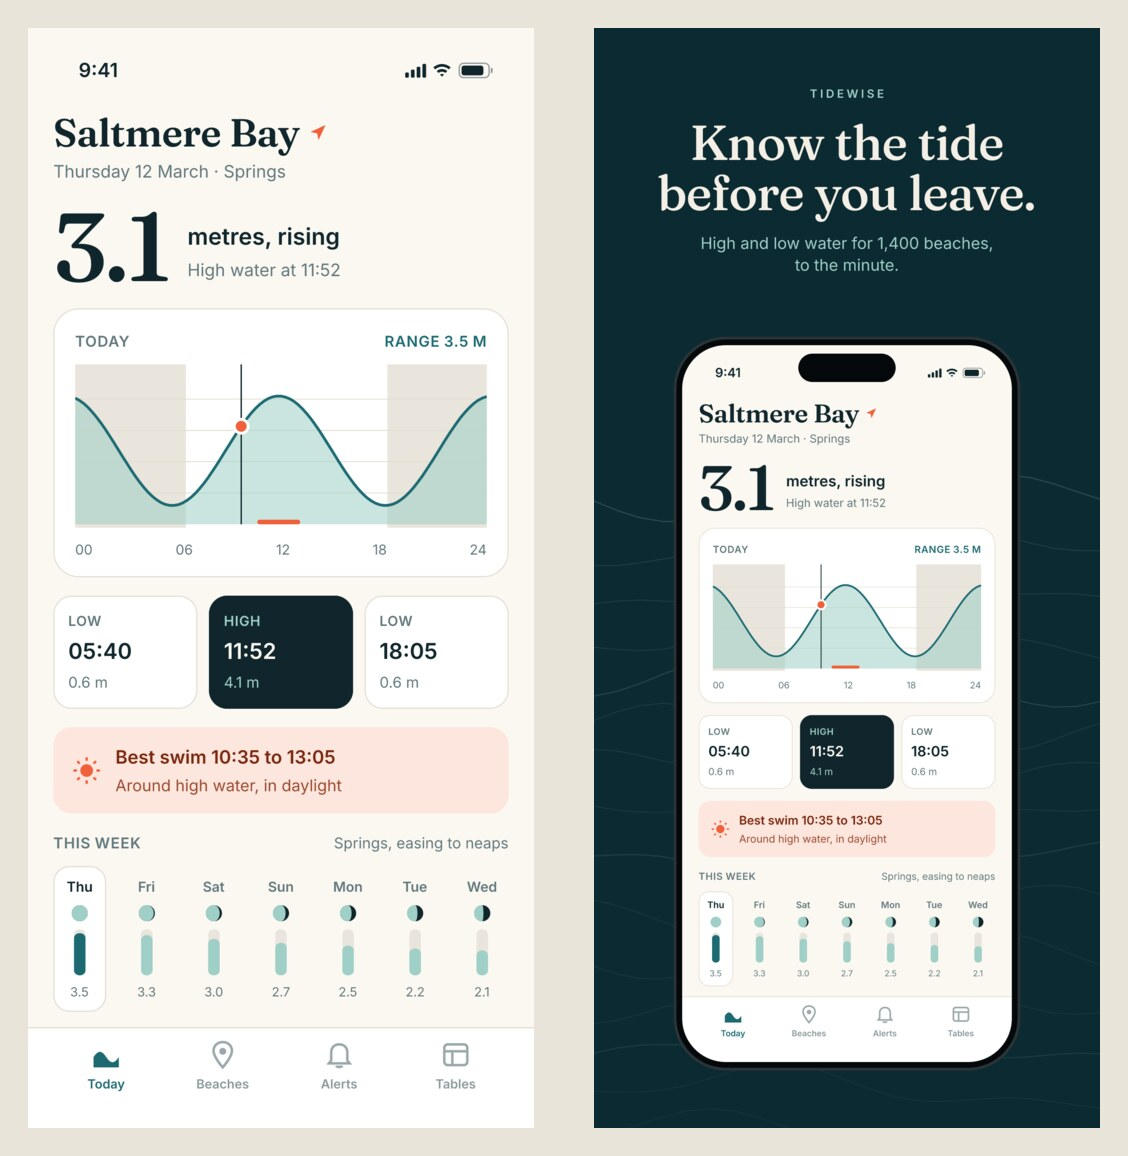
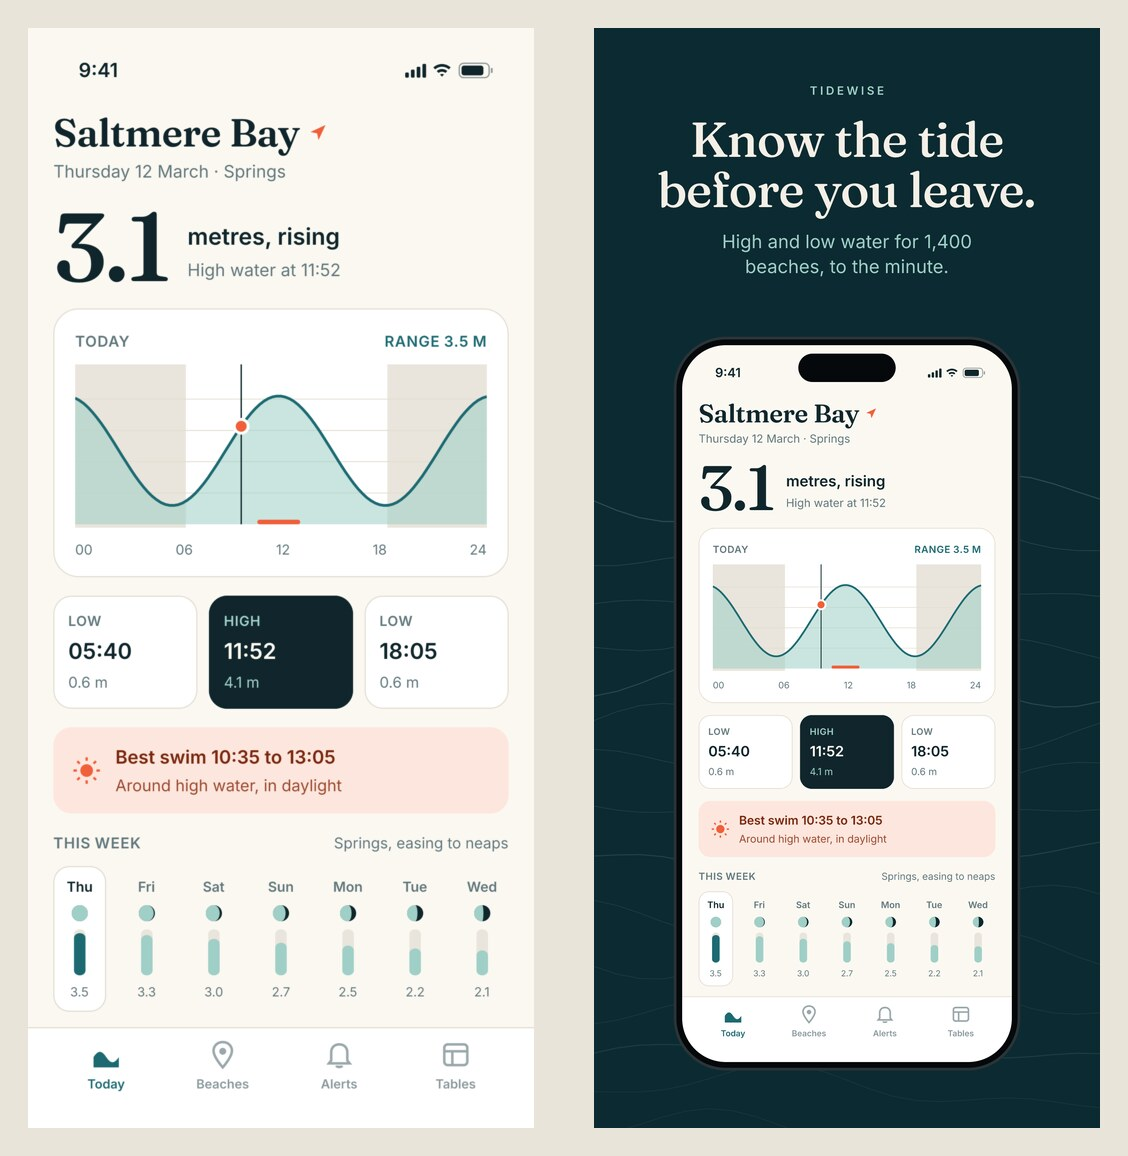
Store-ready RGB PNGs, per-store values files (npm run new), notch frame for 6.5", larger subheads

Changed region(s): [[0.5895, 0.0623, 0.9309, 0.2491]]

diff --git a/src/tidewise-app-store.tsx b/src/tidewise-app-store.tsx
@@ -341,18 +341,27 @@ export const SCREEN_ASPECT = WIDTH / HEIGHT;
  * `screenWidth` px across its screen. The screen is the first child of a Layer, so a screenshot given as an
  * Image fills it, cropped from the center; the island or the camera is drawn over it.
  */
-export function Phone({ screenWidth, device = "iphone", children }: { screenWidth: number; device?: "iphone" | "android"; children: ReactNode }) {
+export function Phone({ screenWidth, device = "iphone", children }: { screenWidth: number; device?: "iphone" | "notch" | "android"; children: ReactNode }) {
   const u = screenWidth / 860;
   const screenHeight = Math.round(screenWidth / SCREEN_ASPECT);
-  const iphone = device === "iphone";
+  const iphone = device !== "android";
   const [outer, inner, screen] = iphone ? [136, 129, 114].map((r) => r * u) : [92, 86, 70].map((r) => r * u);
+  // The notch of a 6.5" iPhone: half the screen wide, flat on top, rounded below, with a small curve into the edge.
+  const nw = Math.round(screenWidth * 0.5);
+  const nh = Math.round(screenHeight * 0.034);
+  const [ear, round] = [10 * u, 26 * u];
+  const notch = `M0 0 H${nw} C${nw - ear * 0.5} 0 ${nw - ear} ${ear * 0.4} ${nw - ear} ${ear} V${nh - round} Q${nw - ear} ${nh} ${nw - ear - round} ${nh} H${ear + round} Q${ear} ${nh} ${ear} ${nh - round} V${ear} C${ear} ${ear * 0.4} ${ear * 0.5} 0 0 0 Z`;
   return (
     <Column style={{ width: screenWidth + 44 * u, backgroundColor: GRAPHITE, borderRadius: outer, padding: 7 * u }}>
       <Column style={{ width: screenWidth + 30 * u, backgroundColor: GLASS, borderRadius: inner, padding: 15 * u }}>
         <Layer style={{ width: screenWidth, height: screenHeight, borderRadius: screen, justifyItems: "center", alignItems: "start" }}>
           {children}
-          <Column style={{ padding: [(iphone ? 22 : 30) * u, 0, 0, 0] }}>
-            {iphone ? (
+          <Column style={{ padding: [device === "notch" ? 0 : (iphone ? 22 : 30) * u, 0, 0, 0] }}>
+            {device === "notch" ? (
+              <Svg width={nw} height={nh} viewBox={`0 0 ${nw} ${nh}`} title="The notch">
+                <Path d={notch} style={{ fill: GLASS }} />
+              </Svg>
+            ) : iphone ? (
               <Svg width={254 * u} height={74 * u} viewBox="0 0 254 74" title="The Dynamic Island">
                 <Rect x={0} y={0} width={254} height={74} rx={37} style={{ fill: GLASS }} />
               </Svg>
@@ -418,11 +427,11 @@ export function Depths({ width, height, color }: { width: number; height: number
  */
 export const SIZES = {
   /** App Store Connect, iPhone 6.9" (required). */
-  iphone69: { width: 1320, height: 2868, device: "iphone", screenWidth: 860, headline: [128, 116, 104, 96], maxLines: 3, subhead: 42, measure: 1100, words: 640, bottom: 150 },
-  /** App Store Connect, iPhone 6.5". */
-  iphone65: { width: 1284, height: 2778, device: "iphone", screenWidth: 836, headline: [124, 112, 100, 92], maxLines: 3, subhead: 41, measure: 1070, words: 600, bottom: 144 },
+  iphone69: { width: 1320, height: 2868, device: "iphone", screenWidth: 860, headline: [128, 116, 104, 96], maxLines: 3, subhead: 48, measure: 1100, words: 640, bottom: 150 },
+  /** App Store Connect, iPhone 6.5": the iPhones of that size have a notch. */
+  iphone65: { width: 1284, height: 2778, device: "notch", screenWidth: 836, headline: [124, 112, 100, 92], maxLines: 3, subhead: 47, measure: 1070, words: 600, bottom: 144 },
   /** Google Play, phone, 9:16. */
-  play: { width: 1080, height: 1920, device: "android", screenWidth: 580, headline: [92, 84, 76, 68], maxLines: 2, subhead: 34, measure: 800, words: 440, bottom: 90 },
+  play: { width: 1080, height: 1920, device: "android", screenWidth: 580, headline: [92, 84, 76, 68], maxLines: 2, subhead: 38, measure: 800, words: 440, bottom: 90 },
 } as const;
 export type Size = keyof typeof SIZES;
 

diff --git a/scripts/new.ts b/scripts/new.ts
@@ -1,0 +1,21 @@
+/**
+ * Makes a values file for one screenshot from a brief and a capture, for one store:
+ *
+ *   npm run new -- plan brief.json capture.png          designs/plan.values.json, App Store sizes (6.9" and 6.5")
+ *   npm run new -- plan brief.json android.png --play   designs/plan-android.values.json, Google Play's size
+ *
+ * It runs `hyper-elements design new` (the template checks the brief and the capture) and keeps only that store's
+ * formats in the file.
+ */
+import { execFileSync } from "node:child_process";
+import { readFileSync, writeFileSync } from "node:fs";
+
+const [name, brief, capture, flag] = process.argv.slice(2);
+if (!name || !brief || !capture) throw new Error("usage: npm run new -- <name> <brief.json> <capture.png> [--play]");
+const play = flag === "--play";
+const out = `designs/${name}${play ? "-android" : ""}.values.json`;
+execFileSync("npx", ["hyper-elements", "design", "new", "templates/app-store-screenshot.tsx", "-o", out, "--values", brief, "--set", `screenshot=@${capture}`], { stdio: "inherit" });
+const file = JSON.parse(readFileSync(out, "utf8"));
+file.formats = play ? ["play"] : ["iphone69", "iphone65"];
+writeFileSync(out, JSON.stringify(file, null, 2) + "\n");
+console.log(`${out}: ${file.formats.join(", ")}. Render it with: npm run render -- ${out}`);

diff --git a/scripts/render.ts b/scripts/render.ts
@@ -1,0 +1,25 @@
+/**
+ * Renders store screenshots with the Hyper Elements command line, then rewrites each PNG without its alpha
+ * channel: App Store Connect and Google Play take screenshots with no transparency (RGB, not RGBA).
+ *
+ *   npm run render                                   every values file in designs/
+ *   npm run render -- designs/plan.values.json       one
+ */
+import { execFileSync } from "node:child_process";
+import { readdirSync, readFileSync, statSync, writeFileSync } from "node:fs";
+import { join } from "node:path";
+import { PNG } from "pngjs";
+
+const args = process.argv.slice(2);
+const started = Date.now();
+execFileSync("npx", ["hyper-elements", "render", ...(args.length ? args : ["designs"]), "--out", "out"], { stdio: "inherit" });
+
+const dir = join("out", "designs");
+for (const name of readdirSync(dir).filter((f) => f.endsWith(".png"))) {
+  const file = join(dir, name);
+  if (statSync(file).mtimeMs < started) continue;
+  const png = PNG.sync.read(readFileSync(file));
+  // Every pixel the template draws is opaque; dropping the channel loses nothing.
+  writeFileSync(file, PNG.sync.write(png, { colorType: 2, inputHasAlpha: true }));
+  console.log(`  ${file}: ${png.width} × ${png.height}, RGB`);
+}

diff --git a/README.md b/README.md
@@ -1,7 +1,8 @@
 # Store screenshots
 
 **A Hyper Elements template for App Store and Google Play screenshots: your app's raw capture, framed in a phone
-drawn in Svg under a headline fitted to the space, at every size the stores ask for.**
+drawn in Svg under a headline fitted to the space, at the portrait sizes App Store Connect and Google Play ask
+for, as RGB PNGs ready to upload.**
 
 ![Four App Store screenshots. Three for Tidewise, a fictional tide-times app ("Know the tide before you leave." on deep green, "Find the beach that suits the tide." on foam, "A nudge before slack water." on sea blue), and one for Steady, a fictional habit tracker, on violet with a sans headline.](docs/hero.jpg)
 
@@ -19,25 +20,26 @@ Tidewise and Steady are fictional apps; their screens are drawn with Hyper Eleme
 git clone https://github.com/adityasarade/hyper-elements-app-store-screenshots
 cd hyper-elements-app-store-screenshots
 npm install
-npm run render        # every design in designs/ → out/designs/*.png
+npm run render        # every design in designs/ → out/designs/*.png, RGB with no alpha, as the stores require
 ```
 
 Make your own. Capture a screen in the iPhone 16 Pro Max or 17 Pro Max simulator
-(`xcrun simctl io booted screenshot capture.png`, 1320 by 2868), write a brief, and render:
+(`xcrun simctl io booted screenshot capture.png`, 1320 by 2868), write a brief, and make one values file per store:
 
 ```bash
-cat > brief.json <<'EOF'
+cat > brief.json <<'JSON'
 { "app": "Your App", "headline": "Plan the week in a minute.", "subhead": "Every task, every person, on one calm board.",
   "colors": { "background": "#123B2C", "headline": "#FFFFFF", "subhead": "#BFE3D2" }, "pattern": "none", "headlineFont": "sans" }
-EOF
-npx hyper-elements design new templates/app-store-screenshot.tsx -o designs/plan.values.json \
-  --values brief.json --set screenshot=@capture.png
-npx hyper-elements render designs/plan.values.json --out out
-# → out/designs/plan.iphone69.png, plan.iphone65.png, plan.play.png
+JSON
+npm run new -- plan brief.json capture.png                 # → designs/plan.values.json (iPhone 6.9" and 6.5")
+npm run new -- plan brief.json android-capture.png --play  # → designs/plan-android.values.json (Google Play)
+npm run render -- designs/plan.values.json designs/plan-android.values.json
+# → out/designs/plan.iphone69.png, plan.iphone65.png, plan-android.play.png
 ```
 
-For Google Play, make a second values file with the Android capture and keep only `"play"` in its `formats`
-(see [`designs/01-today-android.values.json`](designs/01-today-android.values.json)).
+`npm run new` runs `hyper-elements design new` (the template checks the brief and the capture) and keeps only that
+store's formats in the file; `npm run render` runs `hyper-elements render` and writes each PNG without its alpha
+channel.
 
 A values file is data, so it's safe to generate from a CMS, a spreadsheet or an agent: nothing in it runs. Change
 one value later with `npx hyper-elements design set designs/plan.values.json headline="…"`. The template refuses a
@@ -59,14 +61,14 @@ contour lines off, and `headlineFont` switches the headline from Fraunces to Int
 
 ![The Steady habit tracker's raw capture beside its store screenshot on violet.](docs/another-app.jpg)
 
-## Every size the stores ask for
+## Three store sizes
 
-![The first Tidewise screenshot at iPhone 6.9", iPhone 6.5" and Google Play phone size. The Play version draws an Android phone with a punch-hole camera around an Android capture.](docs/three-sizes.jpg)
+![The first Tidewise screenshot at iPhone 6.9", iPhone 6.5" and Google Play phone size. The 6.5" draws a notch; the Play version an Android phone with a punch-hole camera around an Android capture.](docs/three-sizes.jpg)
 
 | Format | Size | Store | Phone |
 |--------|------|-------|-------|
 | `iphone69` | 1320 × 2868 | App Store Connect, iPhone 6.9" (the size it requires) | iPhone, Dynamic Island |
-| `iphone65` | 1284 × 2778 | App Store Connect, iPhone 6.5" | iPhone, Dynamic Island |
+| `iphone65` | 1284 × 2778 | App Store Connect, iPhone 6.5" | iPhone, notch (as the 6.5" iPhones have) |
 | `play` | 1080 × 1920 | Google Play, phone | Android, punch-hole camera |
 
 The phone sits the same distance from the bottom in every screenshot of a size, so a listing lines up side by side
@@ -80,8 +82,8 @@ whatever its headlines say. The headline is fitted to the room above the phone.
 `renderImage()` from `@hyper-elements/react/image`.
 
 - **The phone is drawn, not pasted.** Its body is two rounded `Column`s; its screen is a `Layer` whose first child is
-  the screenshot (it fills the screen, cropped from the center) and whose second is the Dynamic Island or the
-  Android camera, drawn in `Svg` over it.
+  the screenshot (it fills the screen, cropped from the center) and whose second is the Dynamic Island, the notch or
+  the Android camera, drawn in `Svg` over it.
 - **The headline is fitted text.** `fit={{ sizes: [128, 116, 104, 96], maxLines: 3 }}` inside a fixed-height box
   draws it at the largest size that fits, measured with the real fonts. The subhead is fitted the same way.
 - **The backdrop** is contour lines drawn as `Path`s, under a `Layer` with the words and the phone.
